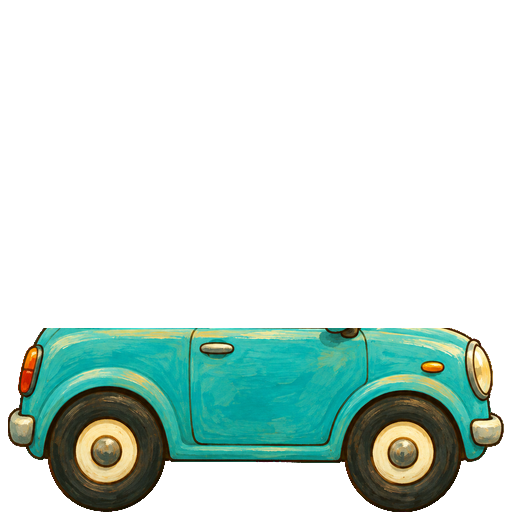
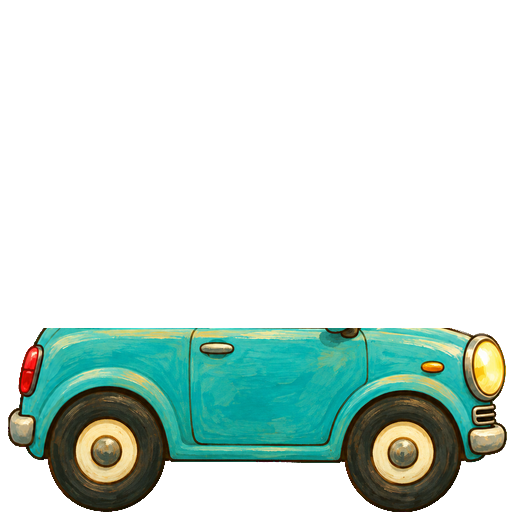
Auto und Bus zeigen ihre Vorderseite, c02 ist entzerrt (welle-035 Posten 1 und 3, Minor b03/c14/sim.ts)
Auto/Bus: großer leuchtender Scheinwerfer, Grill, Stoßstange, rotes Rücklicht — Codex-Bildwerkzeug als Bearbeitung der bestehenden Ebene, nur Nasen- und Heckzone maskiert übernommen (Ausrichtung gemessen 1,0/0/0), Rest pixelgleich; Trim +3 px nachgezogen; Manifest neu. Positionen/Beats/Bänder unverändert.
c02: Altersballon entfernt (ein Vergleich, eine Frage); Ablenker How old is the big giraffe? -> Is the big giraffe small?
Minor: b03 storyDe »auf dem Bild«, c14 Ablenker brown -> green, sim.ts Weckrunde ohne Zelle wirft statt still undefined.
Register: D-1002 fortgeschrieben, D-1009/D-1010/D-1011 neu. Herkunft: docs/art/ch02-welle035/.

Changed region(s): [[0.875, 0.625, 1.0, 0.9062], [0.0312, 0.6562, 0.0938, 0.9062]]

diff --git a/packages/game-paint/src/sim.ts b/packages/game-paint/src/sim.ts
@@ -1067,7 +1067,8 @@ export class Sim {
       const ref=task?.sceneRef;
       if(ref?.beatId && ref.viewId) {
         const cells=["awake_name","awake_happy","awake_from","awake_year","awake_group","awake_reunited"];
-        const cell=cells[req.ctx.round-1]!;
+        const cell=cells[req.ctx.round-1];
+        if(cell===undefined)throw new Error(`Sim: classmate ${source.id} round ${req.ctx.round} has no awakening cell (1..${cells.length})`);
         source.actingCell=cell;
         req={...req,sceneSnapshot:{entityId:source.id,beatId:ref.beatId,viewId:ref.viewId,round:req.ctx.round,
           view:{x:source.x/SUBS-80,y:source.y/SUBS-120,width:160,height:120},

diff --git a/docs/art/ch02-welle035/composite.py b/docs/art/ch02-welle035/composite.py
@@ -1,0 +1,36 @@
+import numpy as np, sys, json
+from PIL import Image
+ART="/Users/veho/Code/domigo-v2-welle035/apps/web/public/art/g1/paint/ch02/"
+S, name, layer, zones_json = sys.argv[1], sys.argv[2], sys.argv[3], sys.argv[4]
+zones=json.loads(zones_json)  # list of [x0,y0,x1,y1,feather_side]
+orig=np.asarray(Image.open(ART+layer+".png").convert("RGBA")).astype(np.float32)/255
+ed=np.asarray(Image.open(f"{S}/gen/{name}_edit_1.png").convert("RGB").resize((512,512),Image.LANCZOS)).astype(np.float32)
+d=np.sqrt((ed[...,0]-255)**2+ed[...,1]**2+(ed[...,2]-255)**2)
+a=np.clip((d-60)/100,0,1)
+mag=np.array([255,0,255],np.float32)
+rgb=np.where(a[...,None]>0.001,(ed-(1-a[...,None])*mag)/np.maximum(a[...,None],1e-3),0)
+rgb=np.clip(rgb,0,255)/255
+edit=np.dstack([rgb,a])
+w=np.zeros((512,512),np.float32); F=8
+yy,xx=np.mgrid[0:512,0:512]
+for x0,y0,x1,y1 in zones:
+    inside=(xx>=x0)&(xx<=x1)&(yy>=y0)&(yy<=y1)
+    # distance to the zone's inner vertical border (x0 if zone extends right, x1 if left)
+    dist=np.minimum(np.minimum(xx-x0,x1-xx),np.minimum(yy-y0,y1-yy))
+    edge_ok=np.ones_like(w)
+    wz=np.clip(dist/F,0,1)
+    # canvas borders don't need feathering
+    wz=np.where((x1>=511)&(xx>x1-F),np.clip((xx-x0)/F,0,1)*np.clip(np.minimum(yy-y0,y1-yy)/F if y1<511 else (yy-y0)/F,0,1),wz)
+    w=np.maximum(w,np.where(inside,wz,0))
+# premultiplied lerp
+po=orig[...,:3]*orig[...,3:]; pe=edit[...,:3]*edit[...,3:]
+A=orig[...,3]*(1-w)+edit[...,3]*w
+P=po*(1-w[...,None])+pe*w[...,None]
+C=np.where(A[...,None]>1e-4,P/np.maximum(A[...,None],1e-4),0)
+out=np.dstack([np.clip(C,0,1),A])
+out8=(out*255+0.5).astype(np.uint8); out8[out8[...,3]==0,:3]=0
+Image.fromarray(out8,"RGBA").save(f"{S}/gen/{layer}.png")
+changed=np.abs(out8.astype(int)-(orig*255+0.5).astype(int)).max(axis=2)>2
+ys,xs=np.nonzero(changed)
+print(layer, "changed px", int(changed.sum()), "bbox", (int(xs.min()),int(ys.min()),int(xs.max()),int(ys.max())) if len(xs) else None)
+al=out8[...,3]>0; ys,xs=np.nonzero(al); print("trim", int(xs.min()),int(ys.min()),int(xs.max()-xs.min()+1),int(ys.max()-ys.min()+1))

diff --git a/docs/art/ch02-welle035/align.py b/docs/art/ch02-welle035/align.py
@@ -1,0 +1,30 @@
+import numpy as np, sys, json
+from PIL import Image
+ART="/Users/veho/Code/domigo-v2-welle035/apps/web/public/art/g1/paint/ch02/"
+S=sys.argv[1]; name=sys.argv[2]; layers=sys.argv[3].split(",")
+orig=np.zeros((512,512,4),np.float32)
+comp=Image.new("RGBA",(512,512),(0,0,0,0))
+for n in layers: comp.alpha_composite(Image.open(ART+n+".png").convert("RGBA"))
+oa=np.asarray(comp).astype(np.float32)
+ed=Image.open(f"{S}/gen/{name}_edit_1.png").convert("RGB")
+def keyed(img):
+    a=np.asarray(img).astype(np.float32)
+    d=np.sqrt((a[...,0]-255)**2+a[...,1]**2+(a[...,2]-255)**2)
+    return a,d
+best=None
+W=ed.size[0]
+for sc in np.arange(0.985,1.016,0.005):
+    size=int(round(512*sc))
+    r=ed.resize((size,size),Image.LANCZOS); a,d=keyed(r); m=(d>120).astype(np.float32)
+    for dx in range(-8,9):
+        for dy in range(-8,9):
+            # place r at offset (off) so that center scaling about bottom-center? use top-left offset
+            ox=dx+(512-size)//2; oy=dy+(512-size)  # bottom-anchored
+            canvas=np.zeros((512,512),np.float32)
+            x0,y0=max(0,ox),max(0,oy); x1,y1=min(512,ox+size),min(512,oy+size)
+            canvas[y0:y1,x0:x1]=m[y0-oy:y1-oy,x0-ox:x1-ox]
+            om=(oa[...,3]>128).astype(np.float32)
+            # compare only middle columns (unchanged body) 80..420
+            e=np.abs(canvas[:,80:420]-om[:,80:420]).mean()
+            if best is None or e<best[0]: best=(e,sc,dx,dy)
+print(json.dumps({"err":float(best[0]),"scale":float(best[1]),"dx":best[2],"dy":best[3]}))

diff --git a/docs/design/g1/paint/DEBT_REGISTER.md b/docs/design/g1/paint/DEBT_REGISTER.md
@@ -1443,7 +1443,7 @@ Nummernblock D-1000–1029 gemäß Trial-Mandat R295; Fortsetzung der ch02-Werks
 |---|---|---|---|---|---|
 | D-1000 | Alte abstrakte Ereigniszahlen bewiesen weder tatsächliche Karten-IDs noch deren Reihenfolge. | `packages/game-paint/src/tape-evidence.test.ts#it`, „compares identities and order, not just totals, and really replays the promise“ und „refuses missing bound cards and keys that the actual machine cannot answer“. | PR #422 prüft echte IDs, Reihenfolge und Szenenereignisse mit roten Identitätsgegenproben. Das aktuelle R1b-Quellband wird unverändert importiert. Die aktuelle Inhaltswiedergabe bestätigt den neuen Vollweg und 63 doppelt beantwortete Ziele; tatsächliche Bilder separat prüfen; strukturierte Momentaufnahmen sind keine Kunstabnahme. | geschlossen (Motorbelege) · offen (Bild) · #422 | CODEX-TRIAL · R1a-Übernahme |
 | D-1001 | 63 freiwillige Reserveabrufe enthalten 21 bewusste Wiederholungen vorhandener Pflichtkartentexte. | `docs/design/g1/paint/ch02-dossiers-v2/coverage.json`; `taskSequenceV2.reserveSlots` in `content/corpus/stories/g1.st.lost-pages/paint/ch02.level.json`. | Der Motor für freiwillige Abrufe ist in #422 gebaut. Alle 63 Reserveplätze einschließlich 21 Wiederholungen und 16 Varianten sind in 79 isolierten Fällen am aktuellen Inhalt geprüft: tatsächlicher Abruf, Bindung, einmaliger Abschluss und Zählerfortschritt. Die vorbereiteten Feldzustände beweisen keine vollständigen freiwilligen Raumwege. Wiederholungen zählen weder als dritte verschiedene Anwendung noch als zweite Pflicht-ID. | offen (vollständige freiwillige Spielwege) · 2026-09-12 | CODEX-TRIAL · R1a-Übernahme |
-| D-1002 | Ein fester Antwortvergleich erkennt nicht jede kommunikativ passende freie Löweneinladung. | D09 in `content/corpus/stories/g1.st.lost-pages/paint/ch02.tasks.v2.json`; vorhandene R2b-Antworten aus den unabhängigen Quelllesungen. | Vorhandene Antworten unverändert importieren. Weitere passende Schülerformulierungen bei der Eingabeabnahme gezielt prüfen und nur nach inhaltlicher Entscheidung ergänzen; kein still erweitertes Lexikon. | offen (Eingabeabnahme) · 2026-09-12 | CODEX-TRIAL · R1a-Übernahme |
+| D-1002 | Ein fester Antwortvergleich erkennt nicht jede kommunikativ passende freie Löweneinladung. | D09 in `content/corpus/stories/g1.st.lost-pages/paint/ch02.tasks.v2.json`; vorhandene R2b-Antworten aus den unabhängigen Quelllesungen. | Vorhandene Antworten unverändert importieren. Weitere passende Schülerformulierungen bei der Eingabeabnahme gezielt prüfen und nur nach inhaltlicher Entscheidung ergänzen; kein still erweitertes Lexikon. welle-035 (Kokis Entscheid 14.09.): Einladungen mit come aus Unit 1 sind jetzt angenommen (Come with us! · Come to us! · Come to the zoo! u. a., Gesetz D-1009); die Blind-Löser-Antworten der Nach-Prüfung werden grün. Offen bleiben Einladungen mit Wörtern aus keiner Unit (Join us! · Come and join us!). | teilweise geschlossen (come-Einladungen) · offen (join, Eingabeabnahme) · 2026-09-14 | CODEX-TRIAL · R1a-Übernahme · EXEC welle-035 |
 | D-1003 | Präzise Bildaufträge und Textprojektionen ersetzen keine echten, geprüften Schülerbilder. | 72 Aufgaben, 75 tatsächlich gerenderte Schülerkarten im Trial-Prüfpaket `card-review-final`; unabhängige Bildlesungen `blind-final-a` bis `blind-final-d` und dokumentierte Nachlesungen. | 302 neue Bilder integriert. Orte, Größen, Passrollen, Hunderegel und Löwenschild wurden aus tatsächlichen Karten ohne Schlüssel gelöst. Aufgedeckte Mehrdeutigkeiten bei Bus, Baum, Familienfrage und Vergleichen korrigiert; abschließende Nachlesung löst A14, B07 und A19 eindeutig und richtig. Der vollständige Antwort-/Schlüsselabgleich fand zusätzlich D01 falsch als vor dem Baum gelöst. Drei Baumfelder korrigieren die tatsächliche Verdeckung bei unveränderten Löwen- und Heimwegen; die frische endgültige Nachlesung löst hinter dem Baum richtig und eindeutig. 71 Karten passen zum Schlüssel; die kommunikativ passende freie D09-Einladung bleibt als Eingabegrenze D-1002 separat offen. Kartenbilder allein beweisen keinen vollständigen Spielweg. | geschlossen (Kartenkunst und Bildlesung) · 2026-09-13 | CODEX-TRIAL · Bildbau ch02 |
 
 | D-1004 | Der Browser-Frischevergleich verwarf echte Rampen wegen unvollständiger JSON-Maskierung; Bonusraum-Landkarten wurden gar nicht geprüft. | `scripts/shoot-world.mjs#levelDrift`; tatsächliche ch02/p2-Serverantwort enthält die vollständige, doppelt serialisierte Landkarte. | Beide Serialisierungsschichten und den Bonusraum berücksichtigen. Selbsttest prüft ch01/ch02 mit allen fünf Räumen und je einer veränderten Zelle; die tatsächlichen p2- und p9-Serverantworten bestehen den Frischevergleich. | geschlossen · #423, vollständige Batterie B2 74/74 einschließlich Selbsttest 063 · 2026-09-13 nachgetragen | CODEX-TRIAL · PR-B-Browserprüfung |
@@ -1455,6 +1455,10 @@ Nummernblock D-1000–1029 gemäß Trial-Mandat R295; Fortsetzung der ch02-Werks
 | D-1007 | Der Ladegrößentest übersprang Entwurfskapitel; ch02/p2 lag trotz grünem altem Test über 35 MiB. | `packages/game-paint/src/artScope-budget-drafts.test.ts`; `packages/game-paint/src/zoo-art-scope.test.ts`; Trial-Belege `lossless-compression` und `zoo-exact-scope`. | 33 zusätzliche Größenprüfungen erfassen alle 30 Räume. Neue Bilder werden verlustfrei komprimiert; ausdrücklich aktivierte Zoo-Figuren laden ihre registrierten Animationszellen statt sämtlicher namensähnlicher Kartenbilder. Vorher 38,833 MiB nach Kompression allein, danach rund 33,549 MiB im schwersten Raum. Grenzwert 35 MiB unverändert; entfernte echte Bewegungszelle wird rot erkannt. | behoben und gezielt geprüft · 2026-09-13 | CODEX-TRIAL · Bildbau ch02 |
 
 | D-1008 | Die Vorschau von PR #424 packte die öffentlich ausgelieferten Bilder zusätzlich in die Spiel-Serverfunktion: 303,7 MB überschritten Vercels 250-MB-Grenze. | `apps/web/lib/paint-art-manifest.test.ts`; `apps/web/scripts/check-paint-function-traces.mjs`; `apps/web/next.config.ts`. | Jeder Produktionsbau erzeugt die Paint-Dateiliste samt unveränderten Inhalts-Fingerabdrücken vor dem Kompilieren. Der Produktionsauflöser braucht nur diesen Index; ausschließlich Paint-Dateien werden aus den Funktionspaketen ausgeschlossen und bleiben öffentliche Bilder. Andere Bildauflöser behalten ihre Laufzeitdateien. Der Test vergleicht alle realen Kapiteladressen ohne verfügbaren Paint-Ordner; der Bauprüfer lehnt Bilddateien im tatsächlichen Funktionspaket sowie Pakete über 250 MiB ab. | Korrektur gebaut; vollständige Batterie und Vercel-Nachprüfung im PR-Bericht | CODEX-TRIAL · Vorschau-Paketgröße |
+
+| D-1009 | Die freie Antwort einer Karte wurde nur gegen den Wortschatz der Kapitel-Unit geerdet; richtige Einladungen mit come (Unit 1) wären an d09 rot gestempelt worden. | `scripts/check-game-tasks.mjs#checkEnAccept`, Selbsttest »accept-units« (4 Fälle); Nach-Prüfung ch02 K2, zwei Blind-Löser. | accept-Varianten dürfen Wörter der eigenen oder einer früheren Unit derselben Schulstufe tragen (u02 liest u01, nie u03); die Musterantwort bleibt an der eigenen Unit. Tamper: Früher-Zweig entfernt, Unit-Grenze verschoben, Aufruf auf das strenge `checkEn` zurückgesetzt — je rot. Grenze: Wörter aus keiner Unit bleiben draußen (D-1002). | geschlossen · 2026-09-14 | EXEC welle-035 · Koki 14.09. |
+| D-1010 | Auto und Bus zeigten ihre Fahrtrichtung nur mit einem wenige Pixel großen Scheinwerfer; zwei Blind-Löser rieten bei in front of und behind (a07, a11, a12, b07). | `apps/web/public/art/g1/paint/ch02/auto_front.png`, `bus_front.png`; Nach-Prüfung ch02 K1. | Vorderseite neu gemalt (großer Scheinwerfer, Stoßstange, roter Rücklicht-Kontrast) mit dem Codex-Bildwerkzeug als Bearbeitung des bestehenden Bildes; nur der Nasen- und Heckbereich wurde maskiert in die registrierte Ebene übernommen, Silhouette außerhalb davon unverändert. Positionen, Beats und Bänder unverändert. Offen: Kokis Blick auf den Stil (welle-014/027). | geschlossen (Lesbarkeit, Blind-Löser) · offen (Kokis Stilurteil) · 2026-09-14 | EXEC welle-035 |
+| D-1011 | Die Giraffen-Karte c02 zeigte fünf Bildteile (zwei Silhouetten, Altersballon, jetzt-Giraffe, leerer Rahmen) für eine Frage; beide Blind-Löser fanden sie zu dicht, einer riet falsch. | `apps/web/public/art/g1/paint/ch02/papagei_sturz_c02_missing_big_giraffe.png`; c02 in `ch02.tasks.v2.json`; Nach-Prüfung ch02 K3. | Altersballon entfernt; es bleibt ein Vergleich (damals klein und groß, jetzt klein und leer). Ablenker »How old is the big giraffe?« ersetzt durch »Is the big giraffe small?«, den das Bild selbst widerlegt. | geschlossen · 2026-09-14 | EXEC welle-035 |
 
 ### LW · ch03 (D-830…859)
 #### L3-G

diff --git a/docs/art/ch02-welle035/README.md b/docs/art/ch02-welle035/README.md
@@ -1,0 +1,19 @@
+# ch02 · welle-035 · Vorderseite Auto/Bus und c02 entzerrt
+
+Nach-Prüfung ch02 (K1, K3). Kokis Entscheid 14.09.: Vorderseite malen, Wörter in front of/behind bleiben.
+
+## Was entstand
+- **Auto** (`auto_front.png`): großer, warm leuchtender Scheinwerfer mit Chromring, kleiner Kühlergrill, Stoßstange; Rücklicht klar rot.
+- **Bus** (`bus_front.png`): großer runder Scheinwerfer, Grill, Chrom-Stoßstange; Rücklichter klar rot. Windschutzscheibe NICHT eingefärbt (sie liegt in `bus_base`, und Beat b06 setzt Pinguine in den Bus — eine undurchsichtige Scheibe hätte sie verdecken können).
+- **c02** (`papagei_sturz_c02_missing_big_giraffe.png`): Altersballon »8« entfernt; es bleibt ein Vergleich (oben klein und groß, unten jetzt klein und leer).
+
+## Wie
+1. Referenz = die bestehenden Ebenen auf Magenta (Auto/Bus 1024², c02 im Original) → Codex-CLI `codex exec` mit dem eingebauten Bildwerkzeug im Bearbeiten-Modus (`prompt_*.txt`). Quellen und Prüfsummen: `sources.txt`.
+2. `align.py`: das Ergebnis auf 512² bzw. 485×495 zurückskaliert und gegen die unveränderte Karosserie ausgerichtet — gemessen Maßstab 1,0, Versatz 0/0 (Masken-Abweichung 0,12 % Auto, 0,09 % Bus).
+3. `composite.py`: NUR die Zonen übernommen, 8 px weich überblendet — Auto Nase x≥440/y≥328 und Heck x≤62/y≥330; Bus Nase x≥455/y≥362 und Heck x≤48/y≥362. Alles außerhalb bleibt Bildpunkt für Bildpunkt die alte Ebene. c02: nur die Ballon-Zone (x 357–463, y 55–224).
+4. `strip-key-fringe --specks` (290 bzw. 123 Magenta-Randpixel repariert), `oxipng -o 4 --strip none`, Registrierungs-Trim nachgezogen (Breite +3 px durch den größeren Scheinwerfer/Stoßstange), `paint-art-manifest.json` neu erzeugt.
+
+Geänderte sichtbare Bildpunkte: Auto 12 587 · Bus 6 605 · c02 9 302.
+Positionen, Beats, Bänder: unverändert.
+
+CODEX-BILDWERKZEUG · Übernahme EXEC welle-035 · Stilurteil bleibt bei Koki (welle-014/027).
